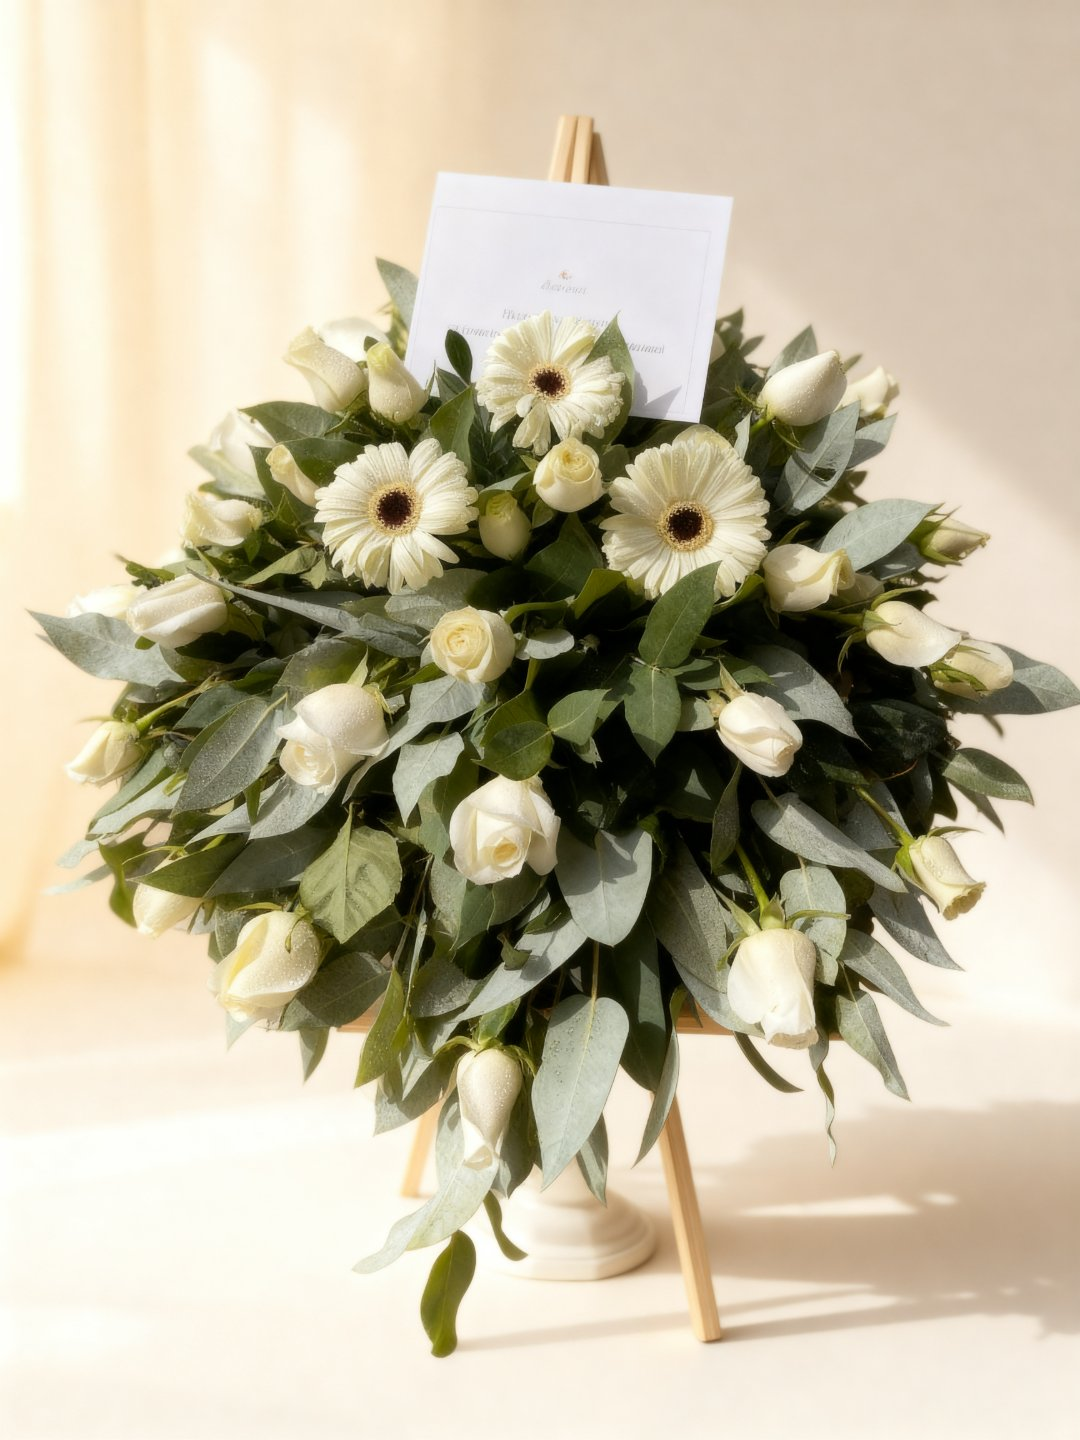
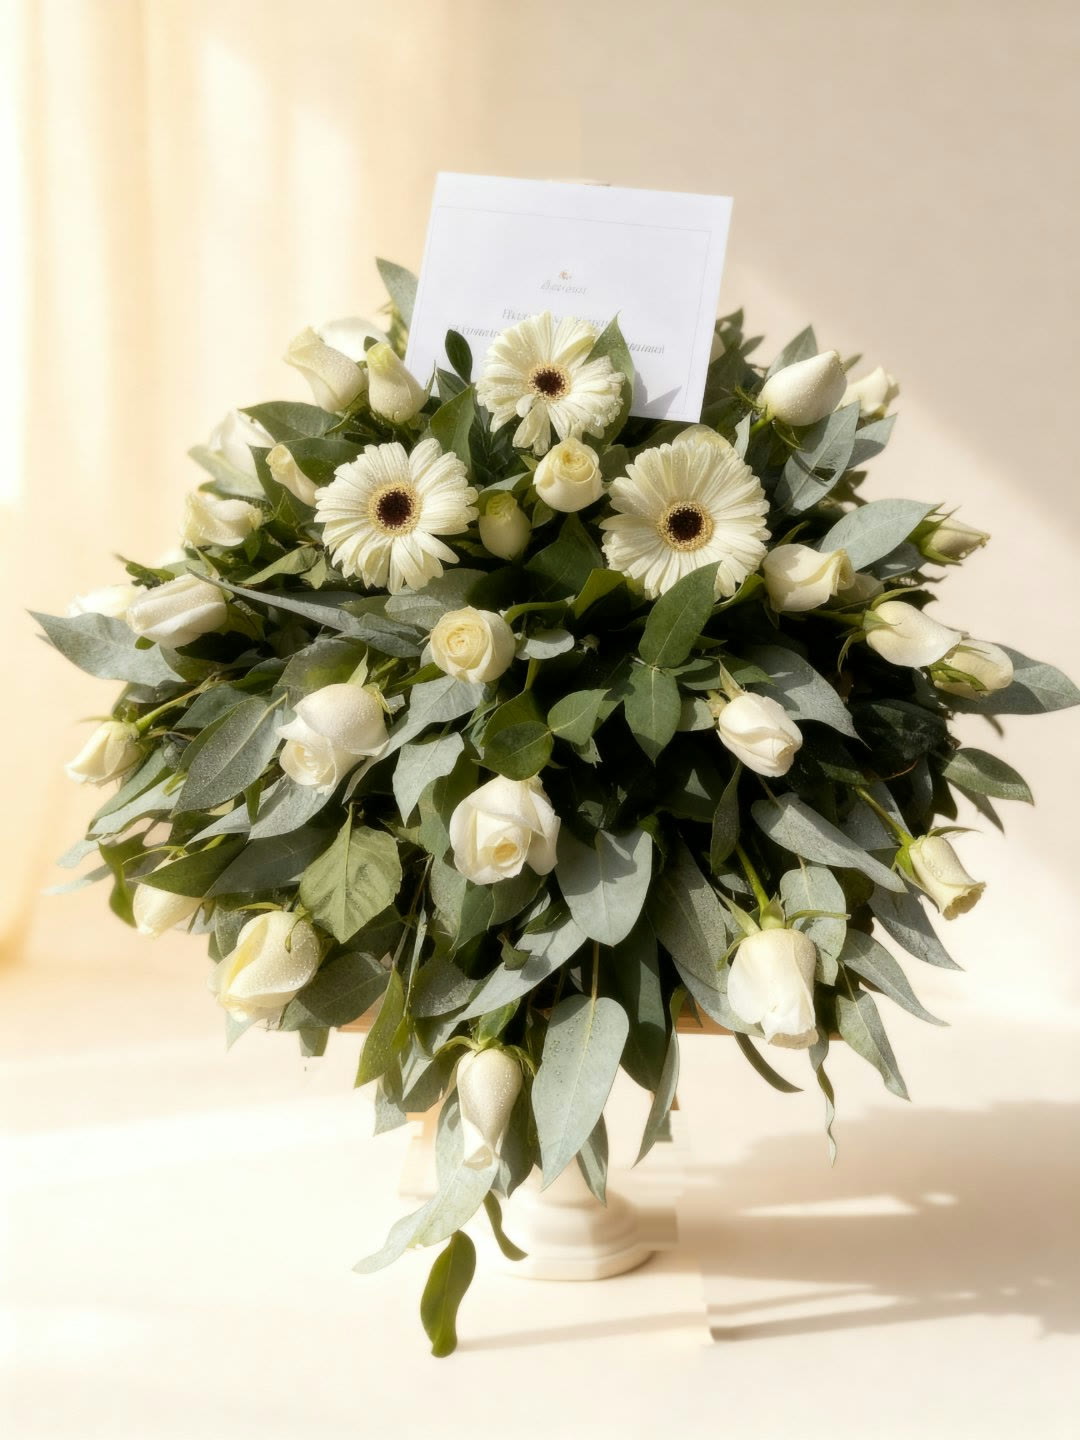
catalogo: nueva categoria Orquideas + "Plantas y Cactus"; reordena chips y quita el caballete de Lagrima Esperanza
- categories.json: orden orquideas, arreglos, floreros, ramos, plantas y cactus, funebre
- 6 orquideas movidas de plantas/arreglos a 'orquideas'; plantas reetiquetado a "Plantas y Cactus"
- migracion idempotente en products-store para recategorizar la BD ya sembrada
- seccion Categorias del home: cover de orquideas/plantas, 6 columnas, "Seis maneras"
- funebre-lagrima-esperanza.jpg: removido el caballete de madera (resto intacto)

diff --git a/db/products-store.js b/db/products-store.js
@@ -118,10 +118,44 @@ async function ensureExtras() {
   if (extras.length) console.log(`[products] asegurados ${extras.length} productos fúnebres`);
 }
 
+// ─── Recategorización única: Orquídeas como categoría propia + "Plantas y Cactus" ─
+// La BD se sembró antes de separar las orquídeas de Plantas/Arreglos y de renombrar
+// la etiqueta de Plantas. Este paso mueve los 6 productos de orquídea a la categoría
+// 'orquideas' y reetiqueta los de 'plantas' a "Plantas y Cactus". Es idempotente: los
+// UPDATE están acotados por el valor antiguo, así que tras correr una vez no vuelven a
+// tocar nada (y no pisan recategorizaciones posteriores del admin).
+const ORCHID_IDS = [
+  'orquidea-sunrise-de-dos-varas',
+  'orquideas-amarillas-con-lineas-fucsias',
+  'orquidea-rosado-vintage',
+  'orquideas-grandes-de-dos-varas-en-maceta',
+  'orquideas-grandes-en-maceta',
+  'orquideas-enanas-maceta-2',
+];
+let reorgEnsured = false;
+async function ensureCategoryReorg() {
+  if (reorgEnsured || !db.enabled) return;
+  const ph = ORCHID_IDS.map((_, i) => `$${i + 1}`).join(',');
+  const orch = await db.query(
+    `UPDATE products SET category = 'orquideas', category_label = 'Orquídeas', updated_at = NOW()
+       WHERE id IN (${ph}) AND category IN ('plantas','arreglos')`,
+    ORCHID_IDS
+  );
+  const plant = await db.query(
+    `UPDATE products SET category_label = 'Plantas y Cactus', updated_at = NOW()
+       WHERE category = 'plantas' AND (category_label <> 'Plantas y Cactus' OR category_label IS NULL)`
+  );
+  reorgEnsured = true;
+  if (orch.rowCount || plant.rowCount) {
+    console.log(`[products] recategorización: ${orch.rowCount} orquídeas, ${plant.rowCount} plantas reetiquetadas`);
+  }
+}
+
 // ─── Lecturas ──────────────────────────────────────────────────────────────────
 async function listPublic() {
   await ensureSeeded();
   await ensureExtras();
+  await ensureCategoryReorg();
   const { rows } = await db.query(
     `SELECT * FROM products WHERE active = TRUE ORDER BY sort_order ASC, created_at ASC`
   );
@@ -131,6 +165,7 @@ async function listPublic() {
 async function listAll() {
   await ensureSeeded();
   await ensureExtras();
+  await ensureCategoryReorg();
   const { rows } = await db.query(
     `SELECT * FROM products ORDER BY sort_order ASC, created_at ASC`
   );

diff --git a/app/src/components/sections/Categories.tsx b/app/src/components/sections/Categories.tsx
@@ -4,10 +4,11 @@ import categories from '@/data/categories.json';
 import { Reveal, Stagger, StaggerItem } from '@/components/motion/Reveal';
 
 const cover: Record<string, string> = {
-  plantas: '/products/orquideas-grandes-de-dos-varas-en-maceta.jpg',
+  orquideas: '/products/orquideas-grandes-de-dos-varas-en-maceta.jpg',
   arreglos: '/products/box-de-luxe.jpg',
   floreros: '/products/florero-de-20-tulipanes-2.jpg',
   ramos: '/products/ramo-de-24-rosas.jpg',
+  plantas: '/products/anturios-rojos-en-maceta.jpg',
   funebre: '/products/funebre-corona-eternidad.jpg',
 };
 
@@ -18,7 +19,7 @@ export const Categories = () => (
         <Reveal>
           <span className="text-[12px] font-medium uppercase tracking-[0.28em] text-foreground/45">— No. 03 · Categorías</span>
           <h2 className="mt-3 font-display text-[2.5rem] font-light leading-[1.02] tracking-tight text-ink-900 md:text-[3.75rem]">
-            Cinco maneras<br />de regalar <em className="italic text-rosa-500">belleza.</em>
+            Seis maneras<br />de regalar <em className="italic text-rosa-500">belleza.</em>
           </h2>
         </Reveal>
         <Link to="/catalogo" className="group inline-flex items-center gap-2 whitespace-nowrap text-[13px] font-medium uppercase tracking-[0.18em] text-ink-900">
@@ -26,7 +27,7 @@ export const Categories = () => (
         </Link>
       </header>
 
-      <Stagger className="grid grid-cols-2 gap-4 md:grid-cols-3 md:gap-6 lg:grid-cols-5">
+      <Stagger className="grid grid-cols-2 gap-4 md:grid-cols-3 md:gap-6 lg:grid-cols-6">
         {categories.map((c) => (
           <StaggerItem key={c.slug}>
             <Link to={`/catalogo?cat=${c.slug}`} className="group block">
